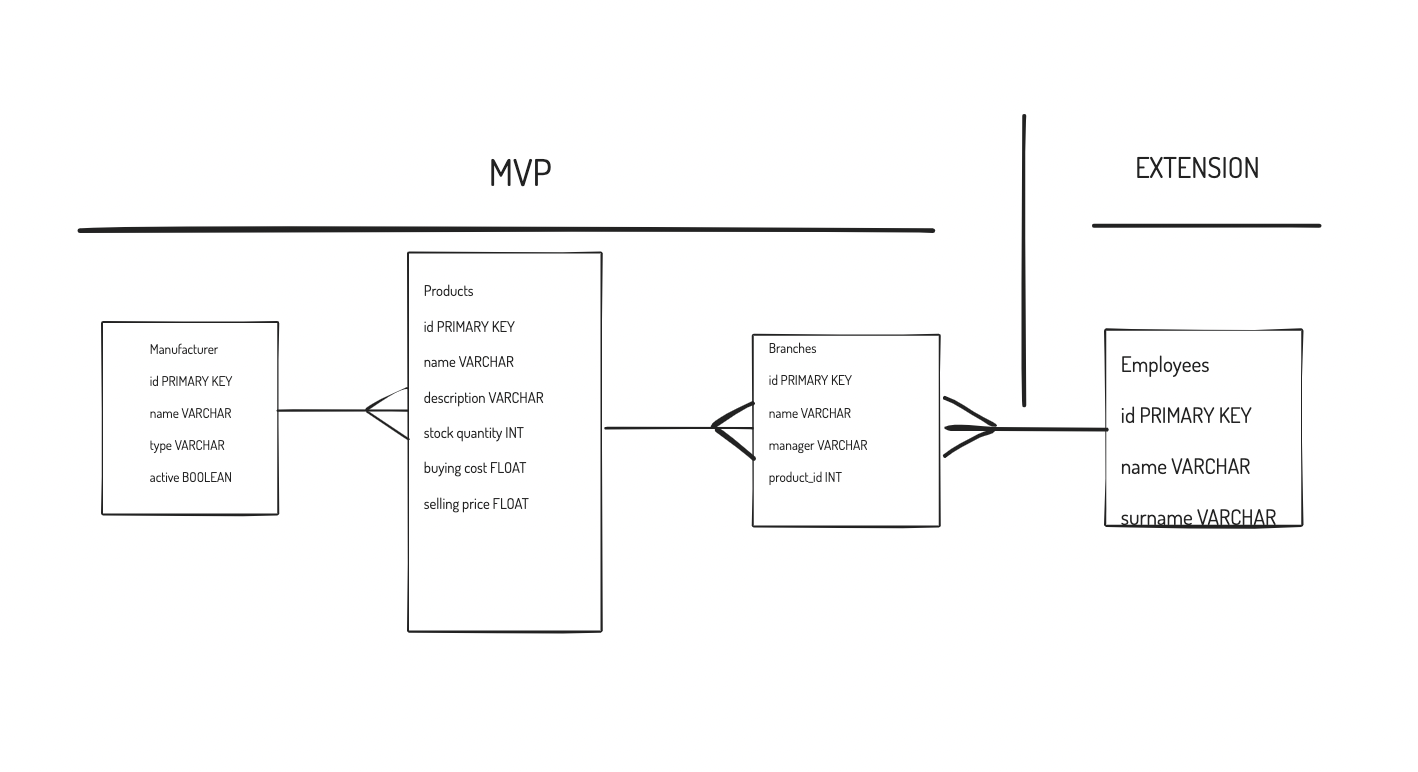
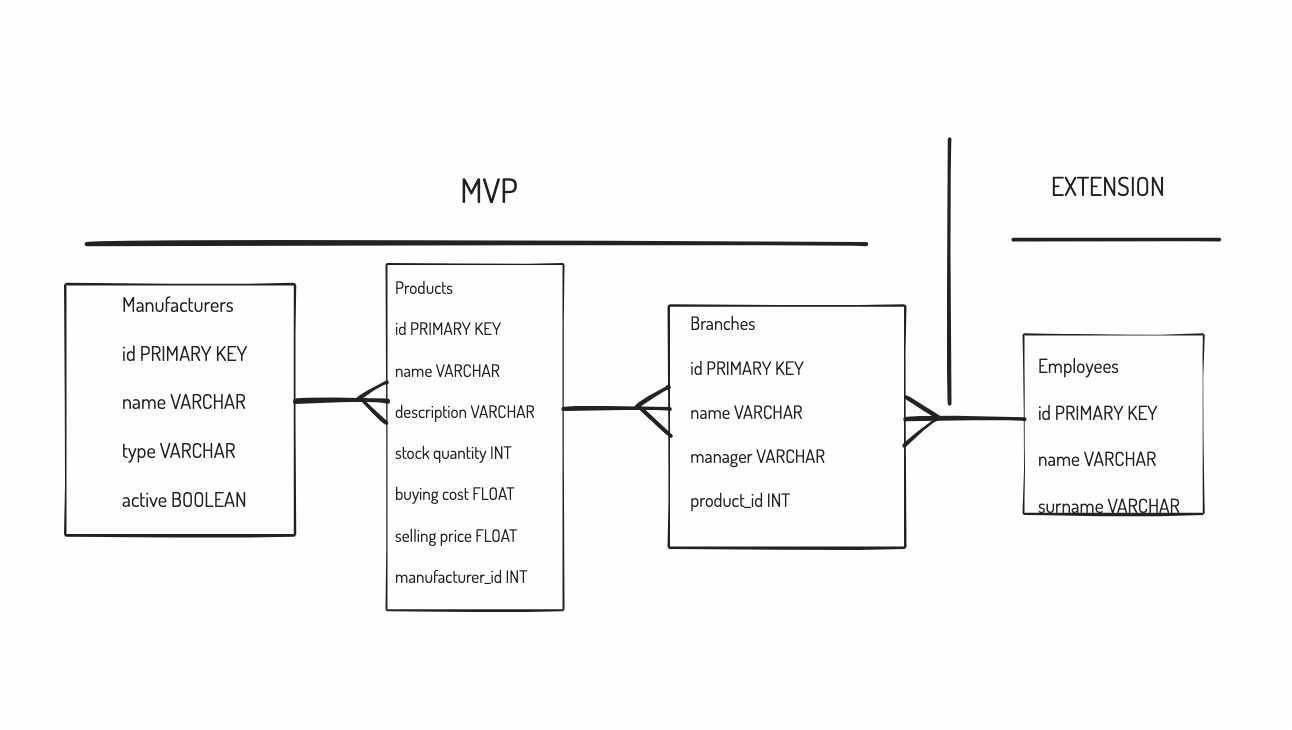
DB model revision

diff --git a/repositories/product_repository.py b/repositories/product_repository.py
@@ -3,11 +3,15 @@ from db.run_sql import run_sql
 from models.product import Product
 
 def save(product):
-    sql = "INSERT INTO products(name, description, quantity, purchase_price, selling_price) VALUES (%s,%s,%s,%s,%s) RETURNING id"
-    values = [product.name, product.description, product.quantity, product.purchase_price, product.selling_price]
+    sql = "INSERT INTO products(name, description, quantity, purchase_price, selling_price, manufacturer_id) VALUES (%s,%s,%s,%s,%s, %s) RETURNING id"
+    values = [product.name, product.description, product.quantity, product.purchase_price, product.selling_price, product.manufacturer.id]
     results = run_sql(sql, values)
     product.id = results[0]['id']
     return product
+
+def delete_all():
+    sql = "DELETE FROM products"
+    run_sql(sql)    
 
 
 

diff --git a/console.py b/console.py
@@ -4,8 +4,16 @@ from models.product import Product
 from models.manufacturer import Manufacturer
 from models.branch import Branch
 import repositories.product_repository as product_repository
+import repositories.manufacturer_repository as manufacturer_repository
 
-product1 = Product("Gilette razors 3pack", "Shaving razors", 50, 1.50, 3.99)
+manufacturer_repository.delete_all()
+product_repository.delete_all()
+
+manufacturer1 = Manufacturer("Procter & Gamble", "Cosmetics", True)
+
+manufacturer_repository.save(manufacturer1)
+
+product1 = Product("Gilette razors 3pack", "Shaving razors", 50, 1.50, 3.99, manufacturer1)
 
 product_repository.save(product1)
 

diff --git a/models/product.py b/models/product.py
@@ -1,8 +1,9 @@
 class Product:
-    def __init__(self, name, description, quantity, purchase_price, selling_price, id = None):
+    def __init__(self, name, description, quantity, purchase_price, selling_price, manufacturer, id = None):
         self.name = name
         self.description = description
         self.quantity = quantity
         self.purchase_price = purchase_price
         self.selling_price = selling_price
+        self.manufacturer = manufacturer
         self.id = id

diff --git a/repositories/manufacturer_repository.py b/repositories/manufacturer_repository.py
@@ -1,0 +1,14 @@
+from db.run_sql import run_sql
+
+from models.manufacturer import Manufacturer
+
+def save(manufacturer):
+    sql = "INSERT INTO manufacturers(name, type, active) VALUES (%s,%s,%s) RETURNING id"
+    values = [manufacturer.name, manufacturer.type, manufacturer.active]
+    results = run_sql(sql, values)
+    manufacturer.id = results[0]['id']
+    return manufacturer
+
+def delete_all():
+    sql = "DELETE FROM manufacturers"
+    run_sql(sql)   

diff --git a/models/manufacturer.py b/models/manufacturer.py
@@ -1,6 +1,7 @@
 class Manufacturer:
     def __init__(self, name, type, active, id = None):
         self.name = name
+        self.type = type
         self.active = active
         self.id = id
 
